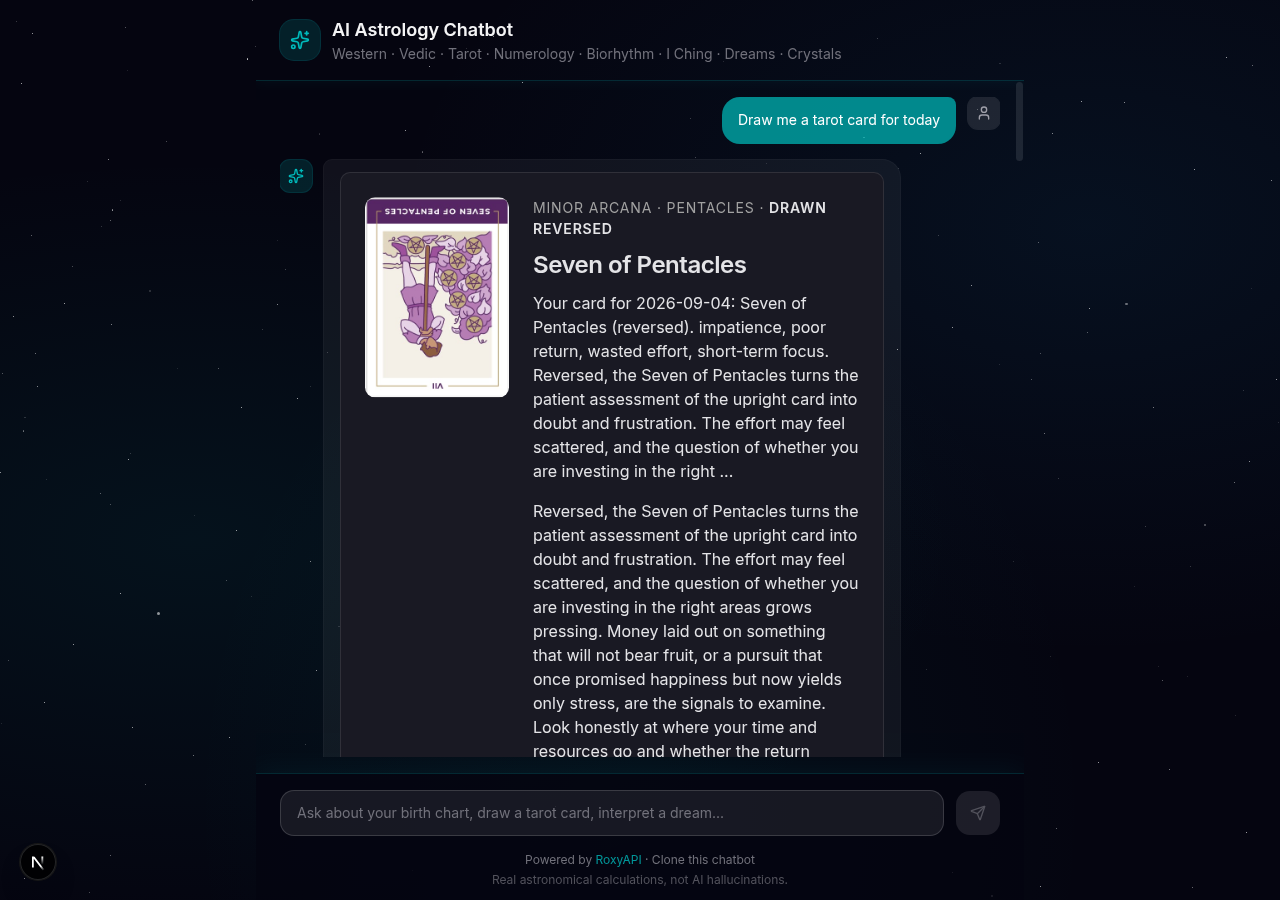
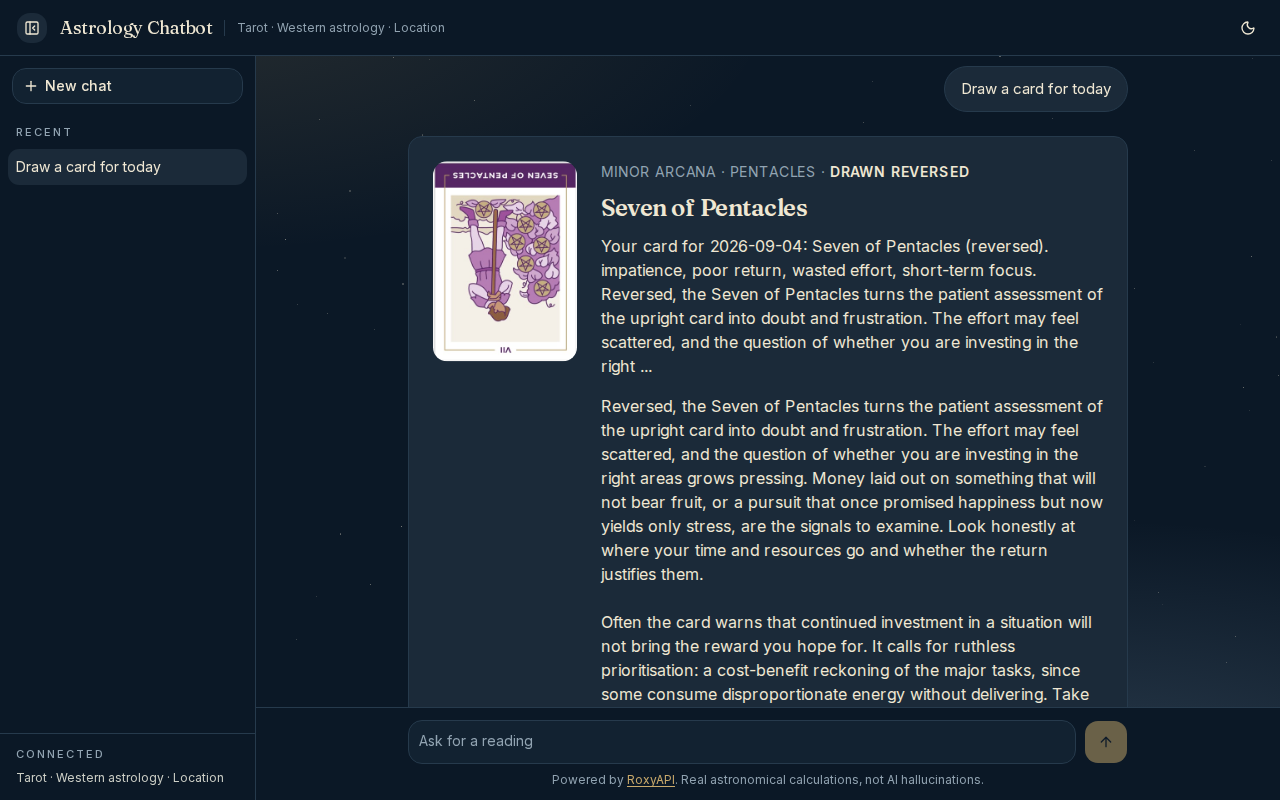
docs: the guide and the readme describe the interface that ships, with fresh screenshots in both themes

diff --git a/tests/prompts.test.ts b/tests/prompts.test.ts
@@ -6,7 +6,7 @@ import { DEFAULT_PRODUCTS } from '@/lib/mcp';
 // real deployments: a chart domain wired into MCP but absent from the prompt (the
 // model never offers it), and a missing "resolve location first" rule (the model
 // calls a chart tool with no timezone, or tries to geocode a landmark, and the
-// chart fails). These assertions are coarse on purpose — they guard the contract,
+// chart fails). These assertions are coarse on purpose: they guard the contract,
 // not the wording.
 
 describe('getSystemPrompt', () => {

diff --git a/README.md b/README.md
@@ -16,17 +16,17 @@
 [![More starters](https://img.shields.io/badge/More_Starters-RoxyAPI-ec4899?style=for-the-badge&logo=github&logoColor=white)](https://roxyapi.com/starters)
 [![Deploy with Vercel](https://img.shields.io/badge/Deploy-Vercel-000000?style=for-the-badge&logo=vercel)](https://vercel.com/new/clone?repository-url=https://github.com/RoxyAPI/astrology-ai-chatbot&env=ROXYAPI_KEY,GOOGLE_GENERATIVE_AI_API_KEY&envDescription=API%20keys%20for%20RoxyAPI%20and%20your%20LLM%20provider&envLink=https://roxyapi.com/pricing)
 
-Ships with auto-discovered remote MCP tools, multi-provider LLM support (Gemini, Claude, GPT), and a space-themed UI.
+Ships with auto-discovered remote MCP tools, multi-provider LLM support (Gemini, Claude, GPT), and an interface built to be shown to customers: light and dark, a collapsible conversation list, and every chart drawn in the palette you choose.
 
 **Clone. Add keys. Deploy. Live AI astrology chatbot in 30 minutes.**
 
-![AI Astrology Chatbot: Empty State](https://raw.githubusercontent.com/RoxyAPI/astrology-ai-chatbot/main/screenshots/screenshot-01.png)
-
-![AI Astrology Chatbot: Vedic Birth Chart Response](https://raw.githubusercontent.com/RoxyAPI/astrology-ai-chatbot/main/screenshots/screenshot-02.png)
+| Dark | Light |
+|---|---|
+| <img src="https://raw.githubusercontent.com/RoxyAPI/astrology-ai-chatbot/main/screenshots/screenshot-01.png" alt="AI astrology chatbot opening screen in dark mode" width="100%"> | <img src="https://raw.githubusercontent.com/RoxyAPI/astrology-ai-chatbot/main/screenshots/screenshot-02.png" alt="AI astrology chatbot opening screen in light mode" width="100%"> |
 
 ## Why This Exists
 
-Most AI astrology chatbots hallucinate planet positions, make up tarot spreads, and invent numerology results. This one calls [RoxyAPI's 200+ verified tools](https://roxyapi.com/api-reference) via [MCP](https://roxyapi.com/docs/mcp) (Model Context Protocol), gets real computed data from astronomical ephemeris engines and mathematical models, then has the LLM interpret it. Every birth chart, every tarot draw, every Life Path calculation is backed by actual computation.
+Most AI astrology chatbots hallucinate planet positions, make up tarot spreads, and invent numerology results. This one calls [the 200+ verified tools at RoxyAPI](https://roxyapi.com/api-reference) via [MCP](https://roxyapi.com/docs/mcp) (Model Context Protocol), gets real computed data from astronomical ephemeris engines and mathematical models, then has the LLM interpret it. Every birth chart, every tarot draw, every Life Path calculation is backed by actual computation.
 
 **13 spiritual domains plus location geocoding. Auto-discovered tools via MCP. Multilingual. Any LLM.**
 
@@ -45,7 +45,7 @@ Most AI astrology chatbots hallucinate planet positions, make up tarot spreads, 
 | **Angel Numbers** | Spiritual meaning of 111, 222, 333, 444, 1111, and any positive integer via digit-root fallback |
 | **Location** | City autocomplete with latitude, longitude, IANA timezone: turns "born in Mumbai" into chart-ready coordinates so users never type lat/long |
 
-Responds in the user's language automatically: Hindi, Spanish, French, German, Japanese, and more.
+Responds in the language the person writes in: Hindi, Spanish, French, German, Japanese, and more.
 
 ## Quick Start
 
@@ -69,7 +69,7 @@ You need two keys:
 
 ## Choose Your LLM
 
-Swap providers with one env var. All three use Vercel AI SDK's unified interface, same code, different model:
+Swap providers with one env var. All three use the unified interface in the Vercel AI SDK, same code, different model:
 
 | Provider | Env Var | Model | Cost / 1M tokens |
 |----------|---------|-------|-------------------|
@@ -100,9 +100,9 @@ No prompt-stuffing. No fake data. No hardcoded horoscopes.
 
 Ask for a tarot card and the card is drawn on screen, art and all, above the reading the model writes. Ask for a natal chart and the wheel renders with its aspect lines, planet list, and aspect grid, in the same message as the interpretation.
 
-![AI Astrology Chatbot: Tarot Card Widget](https://raw.githubusercontent.com/RoxyAPI/astrology-ai-chatbot/main/screenshots/screenshot-03-tarot-widget.png)
-
-![AI Astrology Chatbot: Natal Chart Widget](https://raw.githubusercontent.com/RoxyAPI/astrology-ai-chatbot/main/screenshots/screenshot-04-natal-widget.png)
+| Tarot card, dark | Natal wheel, light |
+|---|---|
+| <img src="https://raw.githubusercontent.com/RoxyAPI/astrology-ai-chatbot/main/screenshots/screenshot-03-tarot-widget.png" alt="A drawn tarot card above the reading written about it" width="100%"> | <img src="https://raw.githubusercontent.com/RoxyAPI/astrology-ai-chatbot/main/screenshots/screenshot-04-natal-widget.png" alt="A natal wheel with aspect lines above the interpretation" width="100%"> |
 
 Nothing is wired per tool. [`@roxyapi/ui-react`](https://www.npmjs.com/package/@roxyapi/ui-react) carries a lookup from the tool name the model used to the component that draws its result, so every domain you enable renders itself. A tool no component covers, a reference lookup for instance, simply keeps the written answer.
 
@@ -111,17 +111,17 @@ Nothing is wired per tool. [`@roxyapi/ui-react`](https://www.npmjs.com/package/@
 | [`src/lib/tool-widgets.ts`](https://github.com/RoxyAPI/astrology-ai-chatbot/blob/main/src/lib/tool-widgets.ts) | Turns a chat message into the list of components to draw |
 | [`src/components/chat/ToolWidget.tsx`](https://github.com/RoxyAPI/astrology-ai-chatbot/blob/main/src/components/chat/ToolWidget.tsx) | Renders that list above the prose in the assistant bubble |
 
-Widgets wear the chat palette rather than a theme of their own. Every surface, ink, border, status colour, face and corner a drawing paints comes from a `--roxy-*` token, and [`globals.css`](https://github.com/RoxyAPI/astrology-ai-chatbot/blob/main/src/app/globals.css) points the whole set at the app palette in one block, so a chart is the same material as the bubble it arrives in:
+Widgets wear the chat palette rather than a theme of their own. Every surface, ink, border, status colour, face and corner a drawing paints comes from a `--roxy-*` token, and [`globals.css`](https://github.com/RoxyAPI/astrology-ai-chatbot/blob/main/src/app/globals.css) points the whole set at the app palette in one block, so a chart is the same material as the page it arrives on:
 
 ```css
 :root {
-  --roxy-surface: var(--surface-panel);
-  --roxy-accent: var(--accent-brand);
+  --roxy-surface: var(--card);
+  --roxy-accent: var(--primary);
   /* and the rest of the set */
 }
 ```
 
-Recolour the palette and the drawings follow, at any width. Restyling a component is never the answer, and `tests/design-tokens.test.ts` fails if a token is given a colour of its own. [THEMING.md](https://github.com/RoxyAPI/ui/blob/main/packages/ui/THEMING.md) covers every token, its light and dark default and what it paints. The [UI components page](https://roxyapi.com/docs/ui) lists every component, and the [AI chat widgets tutorial](https://roxyapi.com/docs/tutorials/ai-chat-widgets) covers the same pattern for other chat frameworks and model vendors.
+Every value is a reference rather than a colour, so the dark palette moves the drawings with everything else and there is no second copy to keep in step. Recolour the palette and the drawings follow, in both themes and at any width. Restyling a component is never the answer, and `tests/design-tokens.test.ts` fails if a token is given a colour of its own. [THEMING.md](https://github.com/RoxyAPI/ui/blob/main/packages/ui/THEMING.md) covers every token, its light and dark default and what it paints. The [UI components page](https://roxyapi.com/docs/ui) lists every component, and the [AI chat widgets tutorial](https://roxyapi.com/docs/tutorials/ai-chat-widgets) covers the same pattern for other chat frameworks and model vendors.
 
 ## MCP Tool Discovery
 
@@ -153,34 +153,41 @@ Available product slugs: `astrology`, `vedic-astrology`, `forecast`, `human-desi
 | **80-150 tools** | Works but slower; model may occasionally pick the wrong tool | Increase `MAX_TOOL_STEPS` if needed |
 | **200+ tools** | Where the full default catalogue sits, all 14 products enabled. Capable models handle it; smaller ones start picking the wrong tool as descriptions compete for context | Trim `ROXYAPI_PRODUCTS` to the domains you actually need |
 
-> **Tip**: If you're building a focused product (e.g. a tarot-only app), set `ROXYAPI_PRODUCTS=tarot` to give the LLM fewer options and faster, more accurate tool selection.
+> **Tip**: If you are building a focused product (e.g. a tarot-only app), set `ROXYAPI_PRODUCTS=tarot` to give the LLM fewer options and faster, more accurate tool selection.
 
 ## Architecture
 
 ```
 src/
 ├── app/
-│   ├── api/chat/route.ts    # Chat endpoint, streamText + MCP tools
-│   ├── layout.tsx            # Root layout, metadata, JSON-LD SEO
+│   ├── api/chat/route.ts     # Chat endpoint, streamText + MCP tools
+│   ├── layout.tsx            # Root layout, the two typefaces, theme provider, metadata
 │   ├── page.tsx              # Home page with structured data
-│   └── globals.css           # Space theme, star animations, glass UI
+│   └── globals.css           # The design system: light palette, dark palette, widget bridge
 ├── components/
 │   ├── chat/
-│   │   ├── ChatPanel.tsx     # Main chat container with useChat
-│   │   ├── MessageList.tsx   # Messages, typing indicator, suggestions
-│   │   ├── MessageBubble.tsx # Markdown rendering for assistant messages
-│   │   ├── MessageInput.tsx  # Input field + send/stop button
+│   │   ├── ChatShell.tsx     # Header, sidebar, transcript, conversation switching
+│   │   ├── ChatHeader.tsx    # Wordmark, connected domains, theme and view controls
+│   │   ├── ChatSidebar.tsx   # New chat, recent conversations, connected list
+│   │   ├── ChatPanel.tsx     # One conversation: transcript, composer, attribution
+│   │   ├── MessageList.tsx   # Transcript, opening screen, four openers
+│   │   ├── MessageBubble.tsx # One turn, markdown for the reply
+│   │   ├── MessageInput.tsx  # Growing composer, send and stop
 │   │   └── ToolWidget.tsx    # Draws the components a tool result earned
-│   └── StarField.tsx         # Animated star background (CSS)
+│   ├── theme-provider.tsx    # Light and dark, remembered
+│   ├── theme-toggle.tsx      # The control in the header
+│   └── StarField.tsx         # The night sky, seeded so it hydrates cleanly
 └── lib/
     ├── ai.ts                 # Multi-provider LLM config (Gemini/Claude/GPT)
     ├── mcp.ts                # MCP client, connects to RoxyAPI and caches all tools
     ├── prompts.ts            # System prompt, personality, capabilities, multilingual
-    └── tool-widgets.ts       # Maps a tool result to the component that renders it
+    ├── tool-widgets.ts       # Maps a tool result to the component that renders it
+    ├── conversations.ts      # Recent conversations, kept in the browser only
+    └── domains.ts            # The reading name for each connected product
 ```
 
 Key design decisions:
-- **MCP over REST**: tools are auto-discovered from RoxyAPI's MCP servers. No manual endpoint definitions needed.
+- **MCP over REST**: tools are auto-discovered from the RoxyAPI MCP servers. No manual endpoint definitions needed.
 - **Persistent MCP connections**: connections are initialized once and cached. No per-request overhead.
 - **Server-side only**: all API keys stay in the Next.js API route. Nothing leaks to the client bundle.
 - **Model agnostic**: Vercel AI SDK v6 abstracts the LLM. Swap Gemini for Claude or GPT with one env var.
@@ -188,15 +195,17 @@ Key design decisions:
 
 ## Features
 
-- **Tool result widgets**: a tarot card, natal wheel, or bodygraph renders above the interpretation, themed to the chat
-- **Markdown responses**: assistant messages render with full markdown support (headings, bold, lists, code blocks, tables, links)
-- **Typing indicator**: animated dots show during the submitted and streaming phases until text arrives
+- **Tool result widgets**: a tarot card, natal wheel, or bodygraph renders above the interpretation, in the palette you chose
+- **Light and dark**: dark on a first visit, one control in the header, and the choice is remembered. The drawn charts follow the switch
+- **Conversation history**: recent conversations listed in the sidebar, kept in the browser under one key and bounded at twenty. Nothing is sent anywhere and there is no account
+- **Collapsible sidebar**: a panel on a wide screen, a drawer on a phone, closed with the escape key
+- **Markdown responses**: assistant messages render with full markdown support (headings, bold, lists, code blocks, tables, links). A wide table scrolls in its own frame
+- **A composer that behaves**: grows with what you type up to a cap, enter sends, shift and enter makes a newline, and a second submit cannot start a second turn
 - **Stop button**: cancel a long-running response mid-stream
-- **Sticky input**: chat input stays pinned at the bottom; only the message body scrolls
 - **Rate limiting**: built-in per-IP rate limiter (20 req/min) to protect LLM API credits
 - **Input validation**: request body validation with message count cap to prevent abuse
 - **Security headers**: X-Content-Type-Options, X-Frame-Options, Referrer-Policy
-- **Accessible**: ARIA labels on interactive elements, `role="log"` on the message list
+- **Accessible**: zero axe violations in both themes, a visible focus ring on every control, `role="log"` on the transcript, and reduced motion respected
 
 ## Stack
 
@@ -207,7 +216,9 @@ Key design decisions:
 | Data | [RoxyAPI](https://roxyapi.com): 200+ tools, 13 spiritual domains plus location, Remote [MCP](https://roxyapi.com/docs/mcp) |
 | Tool Discovery | [MCP](https://modelcontextprotocol.io) via `@ai-sdk/mcp`, auto-discovers tools at runtime |
 | Widgets | [@roxyapi/ui-react](https://www.npmjs.com/package/@roxyapi/ui-react): charts, spreads, and tables that render a tool result |
-| UI | [Tailwind CSS v4](https://tailwindcss.com) + [shadcn/ui](https://ui.shadcn.com) + custom space theme |
+| UI | [Tailwind CSS v4](https://tailwindcss.com) + [shadcn/ui](https://ui.shadcn.com), one palette in two themes |
+| Type | Fraunces and Inter, self hosted through `next/font` |
+| Theming | [next-themes](https://github.com/pacocoursey/next-themes), dark by default, remembered |
 | SEO | Server-rendered JSON-LD (schema.org), Open Graph, keyword meta tags |
 
 ## Customize
@@ -216,7 +227,11 @@ Key design decisions:
 
 **Which domains**: set the `ROXYAPI_PRODUCTS` env var, or edit the product list in [`src/lib/mcp.ts`](https://github.com/RoxyAPI/astrology-ai-chatbot/blob/main/src/lib/mcp.ts).
 
-**UI theme**: components are in [`src/components/chat/`](https://github.com/RoxyAPI/astrology-ai-chatbot/blob/main/src/components/chat/). Star field, colors, and glass effects are in [`globals.css`](https://github.com/RoxyAPI/astrology-ai-chatbot/blob/main/src/app/globals.css). Everything is Tailwind, no CSS-in-JS.
+**Colours**: the whole product is two blocks in [`globals.css`](https://github.com/RoxyAPI/astrology-ai-chatbot/blob/main/src/app/globals.css), `:root` for light and `.dark` for dark. Edit those and everything follows, the drawn charts included, because every `--roxy-*` token is a reference into the same palette. `npm test` fails if a token goes missing from one theme.
+
+**Typefaces**: two families in [`layout.tsx`](https://github.com/RoxyAPI/astrology-ai-chatbot/blob/main/src/app/layout.tsx), loaded through `next/font` as CSS variables. Swap a face there and in the matching line of `globals.css`.
+
+**Layout and copy**: the screen is in [`src/components/chat/`](https://github.com/RoxyAPI/astrology-ai-chatbot/blob/main/src/components/chat/). The opening screen and its four openers are in `MessageList.tsx`. Everything is Tailwind, no CSS-in-JS.
 
 **Tool step limit**: set `MAX_TOOL_STEPS` in your env to control how many tool-call round-trips the LLM can make per message (default: 5).
 
@@ -261,13 +276,13 @@ npm run build && npm start
 
 The default setup exposes ~200 tools from 14 RoxyAPI products (13 spiritual domains plus location for geocoding). Modern models like Gemini 2.5 Flash, GPT-5 mini, and Claude Haiku 4.5 handle this well. If you see the model picking the wrong tool or making excessive tool calls, reduce the product count via `ROXYAPI_PRODUCTS`, fewer tools means faster, more accurate selection.
 
-### The chatbot is unstable / sometimes doesn't respond
+### The chatbot is unstable or sometimes does not respond
 
-This is almost always caused by MCP initialization timing out. The default `maxDuration` is 60 seconds, which should be enough. If you're on Vercel's Hobby plan (10s limit), upgrade to Pro or reduce the number of products. Also check that your `ROXYAPI_KEY` is valid.
+This is almost always caused by MCP initialization timing out. The default `maxDuration` is 60 seconds, which should be enough. If you are on the Vercel Hobby plan (10s limit), upgrade to Pro or reduce the number of products. Also check that your `ROXYAPI_KEY` is valid.
 
 ### Do MCP connections stay open forever?
 
-MCP connections persist for the lifetime of your server process. On Vercel, they're automatically refreshed when your function recycles after a period of inactivity. You don't need to manage connection lifecycle manually.
+MCP connections persist for the lifetime of your server process. On Vercel, they are refreshed automatically when your function recycles after a period of inactivity. You do not need to manage connection lifecycle manually.
 
 ### Why is the first message slow?
 
@@ -287,7 +302,7 @@ ROXYAPI_PRODUCTS=tarot,numerology
 
 ### Is this free to use?
 
-The code is free and open source. You'll need a [RoxyAPI key](https://roxyapi.com/pricing) (you can [request a free test key](https://roxyapi.com/contact) to try it out) and an LLM provider key (Gemini has a free tier).
+The code is free and open source. You will need a [RoxyAPI key](https://roxyapi.com/pricing) (you can [request a free test key](https://roxyapi.com/contact) to try it out) and an LLM provider key (Gemini has a free tier).
 
 ## Links
 

diff --git a/AGENTS.md b/AGENTS.md
@@ -20,7 +20,7 @@ Prefer these live sources over memory for any RoxyAPI path, field, SDK method, o
   - Optional `LLM_PROVIDER`: `gemini`, `anthropic`, or `openai`
   - Optional `ROXYAPI_PRODUCTS` to limit which MCP servers connect, e.g. `astrology,tarot,location`
 - `npm install`, then `npm run dev`, then open http://localhost:3000
-- `npm test` runs the vitest suite (env resolution, product resolution, system-prompt contract, tool widget mapping)
+- `npm test` runs the vitest suite (env resolution, product resolution, system-prompt contract, tool widget mapping, saved conversations, domain names, design tokens)
 
 ## How data flows
 - This chatbot never calls the REST API directly. The LLM picks a tool, the tool runs through MCP, MCP calls RoxyAPI, the LLM streams an interpretation back.
@@ -31,13 +31,32 @@ Prefer these live sources over memory for any RoxyAPI path, field, SDK method, o
 Every chart tool (Western, Vedic, Human Design, Forecast, Chinese astrology BaZi, Biorhythm) needs a correct `timezone`; most also need `latitude` and `longitude`. BaZi is the exception that still needs the timezone: it reads the hour pillar from the birth clock and takes coordinates only when asked for a solar or local-mean hour. The model must resolve the birthplace with the `location` search tool first, then pass the returned IANA timezone (and coordinates) to the chart tool. Search the nearest well-known city, never a landmark, airport, base, or village. This guidance lives in `src/lib/prompts.ts`. keep it when you customise the persona, or chart calls will fail for users who give a vague birthplace. Keep the `location` slug enabled whenever any chart product is enabled.
 
 ## Where to extend
+
+**The model and the tools**
 - `src/lib/prompts.ts`, system prompt: persona, capability list, and the location-first rule. Tune tone here; preserve the tool-selection guidance.
 - `src/lib/mcp.ts`, MCP server registry and discovery. Add or remove product slugs here.
 - `src/lib/ai.ts`, LLM provider switch. Add a provider by extending the model factory.
 - `src/app/api/chat/route.ts`, streaming chat handler wiring the LLM to discovered MCP tools.
+
+**What a tool result draws**
 - `src/lib/tool-widgets.ts`, the map from a completed tool call to the component that draws its result. Pure and unit tested. Change what renders here, not in the view.
-- `src/components/chat/ToolWidget.tsx`, renders that list above the prose in the assistant bubble. It is themed by the `--roxy-*` bridge in `src/app/globals.css`, which points every one of those tokens at the app palette, so recolour the palette and never restyle a component. `tests/design-tokens.test.ts` fails if a token is given a colour of its own or stops matching the radius scale. Every token, its light and dark default and what it paints: https://github.com/RoxyAPI/ui/blob/main/packages/ui/THEMING.md
-- `src/app/page.tsx` + `src/components/`, chat UI, styling, layout.
+- `src/components/chat/ToolWidget.tsx`, renders that list above the prose in the assistant turn.
+
+**The look**
+- `src/app/globals.css`, the whole design system: the light palette in `:root`, the dark one in `.dark`, and the `--roxy-*` bridge that hands both to the components drawing a tool result. Recolour the product by editing those two blocks and nothing else, and never restyle a component. `tests/design-tokens.test.ts` fails if a palette token is missing from either block, if a bridge token is given a colour of its own, or if a corner stops matching the radius scale. Every token, its light and dark default and what it paints: https://github.com/RoxyAPI/ui/blob/main/packages/ui/THEMING.md
+- `src/app/layout.tsx`, the two typefaces and the theme provider. Fonts load through `next/font/google` as CSS variables, so swapping a face is one line here plus the matching line in `globals.css`.
+- `src/components/theme-toggle.tsx`, the light and dark control in the header. Dark is the theme on a first visit and the choice is remembered.
+
+**The screen**
+- `src/components/chat/ChatShell.tsx`, the layout: header, sidebar, transcript, and the conversation being read.
+- `src/components/chat/ChatHeader.tsx`, wordmark, the strip of connected domains, and the view controls.
+- `src/components/chat/ChatSidebar.tsx`, new chat, recent conversations, and the connected list. A panel on a wide screen and a drawer on a narrow one.
+- `src/components/chat/ChatPanel.tsx`, one conversation: the transcript, the composer, and the attribution.
+- `src/components/chat/MessageList.tsx`, the transcript, the opening screen and its four openers.
+- `src/components/chat/MessageBubble.tsx`, one turn. The question is boxed, the reply is not.
+- `src/components/chat/MessageInput.tsx`, the composer. Enter sends, shift and enter makes a newline.
+- `src/lib/conversations.ts`, recent conversations, kept in the browser under one key and bounded at twenty. Nothing is sent anywhere and there is no account. Unit tested.
+- `src/lib/domains.ts`, the reading name for each product slug, shown in the header and the sidebar.
 
 ## Conventions
 - Next.js App Router with server components. The chat route is a streaming POST endpoint. API keys stay server-side, never in the client bundle.
@@ -45,7 +64,7 @@ Every chart tool (Western, Vedic, Human Design, Forecast, Chinese astrology BaZi
 - Accuracy is cross referenced against NASA JPL Horizons DE441. Never claim the calculation engine is open source. The public framing is "Roxy Ephemeris".
 
 ## Staying in sync with upstream
-This repo is a template. When you build your own product on it, keep pulling RoxyAPI's improvements (new domains, prompt fixes, dependency bumps) without losing your customisations.
+This repo is a template. When you build your own product on it, keep pulling improvements from RoxyAPI (new domains, prompt fixes, dependency bumps) without losing your customisations.
 
 ```bash
 git remote add upstream https://github.com/RoxyAPI/astrology-ai-chatbot.git  # one time
@@ -53,7 +72,7 @@ git fetch upstream
 git merge upstream/main        # or: git rebase upstream/main
 ```
 
-- Keep your edits concentrated in `src/lib/prompts.ts` (persona) and the UI under `src/app/` and `src/components/` so merges stay clean.
+- Keep your edits concentrated in `src/lib/prompts.ts` (persona), the two palette blocks in `src/app/globals.css`, and the UI under `src/app/` and `src/components/` so merges stay clean.
 - Treat `src/lib/mcp.ts`, `src/lib/ai.ts`, and `src/app/api/chat/route.ts` as upstream-owned. Prefer env vars (`ROXYAPI_PRODUCTS`, `LLM_PROVIDER`, `MAX_TOOL_STEPS`) over editing them.
 - After merging, run `npm install` and `npm test`. The prompt-contract test fails fast if a customised prompt drops a connected domain or the location-first rule.
 
